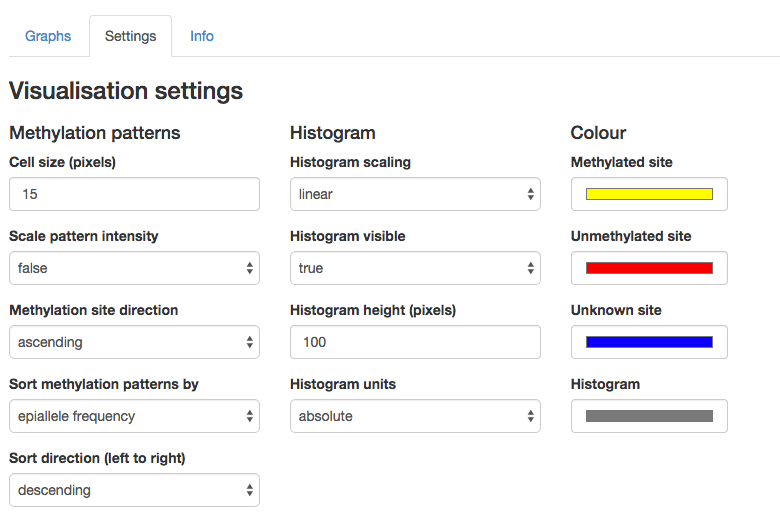
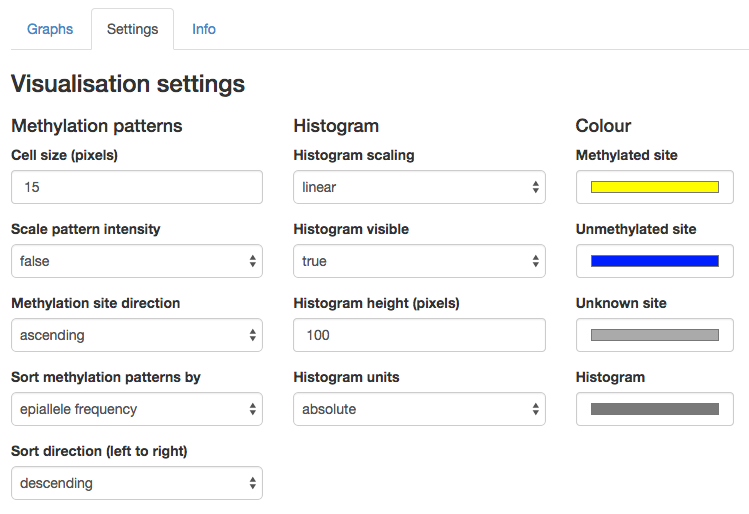
Updated gh-pages examples to use new default colour scheme

diff --git a/pages/methpat.html b/pages/methpat.html
@@ -156,17 +156,17 @@ textarea {
                     <form role="form">
                         <div class="form-group">
                             <label for="methylated_colour">Methylated site</label>
-                            <input type="color" id="methylated_colour" class="form-control" value="#fffb00">
+                            <input type="color" id="methylated_colour" class="form-control" value="#FFFF00">
                         </div> 
 
                         <div class="form-group">
                             <label for="unmethylated_colour">Unmethylated site</label>
-                            <input type="color" id="unmethylated_colour" class="form-control" value="#f90000">
+                            <input type="color" id="unmethylated_colour" class="form-control" value="#0000FF">
                         </div> 
 
                         <div class="form-group">
                             <label for="unknown_colour">Unknown site</label>
-                            <input type="color" id="unknown_colour" class="form-control" value="#0000f9">
+                            <input type="color" id="unknown_colour" class="form-control" value="#AAAAAA">
                         </div> 
                         <div class="form-group">
                             <label for="histogram_colour">Histogram</label>
